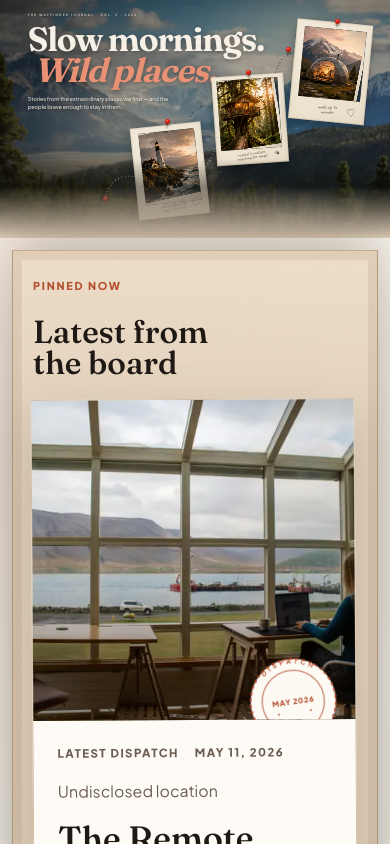
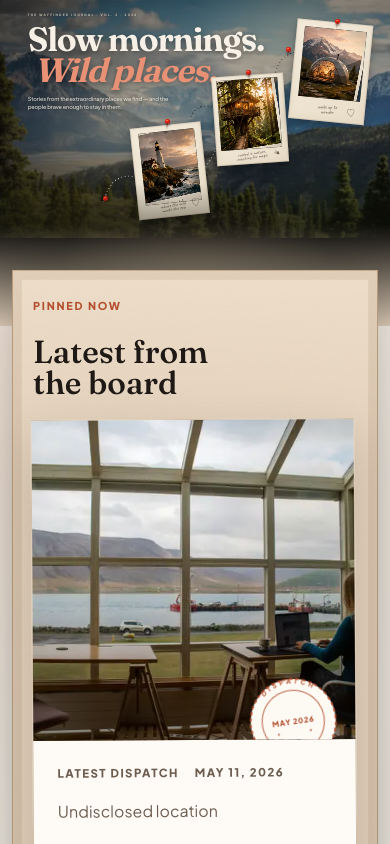
polish(journal): extend hero backdrop into board

diff --git a/src/app/(app)/globals.css b/src/app/(app)/globals.css
@@ -451,9 +451,11 @@
   z-index: 1;
   display: grid;
   place-items: start center;
+  padding-bottom: clamp(5.5rem, 8vw, 8.5rem);
   background:
+    radial-gradient(ellipse at 50% 90%, rgba(236, 218, 179, 0.18), transparent 48%),
     radial-gradient(circle at 50% 35%, rgba(236, 218, 179, 0.08), transparent 38%),
-    linear-gradient(180deg, #1f211f, #070807 72%);
+    linear-gradient(180deg, #1f211f 0%, #070807 72%, #11110c 100%);
   overflow: hidden;
 }
 
@@ -464,10 +466,10 @@
   bottom: -1px;
   left: 0;
   z-index: 38;
-  height: clamp(5rem, 9vw, 9rem);
+  height: clamp(9rem, 14vw, 14rem);
   pointer-events: none;
   background:
-    linear-gradient(180deg, transparent, rgba(12, 13, 9, 0.42) 34%, oklch(0.88 0.035 72) 100%),
+    linear-gradient(180deg, transparent, rgba(12, 13, 9, 0.35) 28%, oklch(0.88 0.035 72) 100%),
     radial-gradient(ellipse at 50% 100%, oklch(0.76 0.05 70 / 0.45), transparent 62%);
 }
 
@@ -1085,7 +1087,7 @@ body:has(.journal-hero) nextjs-portal {
 .journal-board {
   position: relative;
   z-index: 4;
-  margin: clamp(0.75rem, 1.4vw, 1.5rem) clamp(0.75rem, 2vw, 2rem) clamp(4rem, 8vw, 7rem);
+  margin: clamp(-5.5rem, -6vw, -3.5rem) clamp(0.75rem, 2vw, 2rem) clamp(4rem, 8vw, 7rem);
   padding: clamp(1.75rem, 4.5vw, 4.5rem) clamp(1.25rem, 4vw, 4rem) clamp(1.25rem, 4vw, 4rem);
   background:
     linear-gradient(180deg, oklch(0.91 0.032 74 / 0.98), transparent 11rem),
